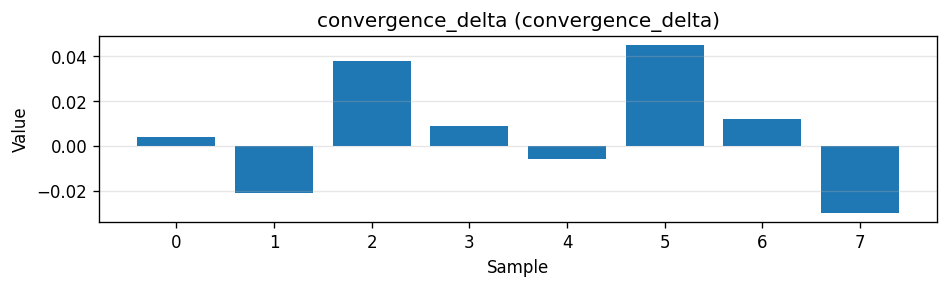
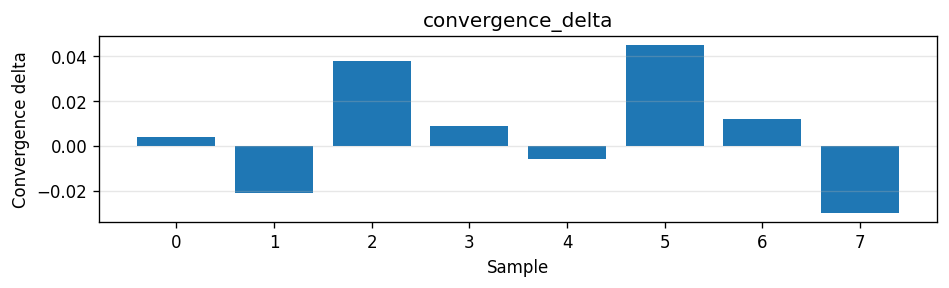
fix(transparency): label structured-payload panels by kind not generic Value (#101)

Changed region(s): [[0.3361, 0.0312, 0.764, 0.0938], [0.0, 0.3438, 0.0306, 0.7188], [0.0, 0.1875, 0.0306, 0.3125]]

diff --git a/src/raitap/transparency/visualisers/structured_payload_visualiser.py b/src/raitap/transparency/visualisers/structured_payload_visualiser.py
@@ -55,10 +55,17 @@ class StructuredPayloadSummaryVisualiser(BaseVisualiser):
         fig, axes = plt.subplots(len(payloads), 1, figsize=(8, 2.5 * len(payloads)), squeeze=False)
         for ax, payload in zip(axes[:, 0], payloads, strict=True):
             values = self._to_1d_numpy(payload.data)
+            readable_kind = payload.kind.value.replace("_", " ").capitalize()
+            # ``name`` is usually the kind value; only disambiguate when it differs.
+            title = (
+                payload.name
+                if payload.name == payload.kind.value
+                else f"{payload.name} ({payload.kind.value})"
+            )
             ax.bar(np.arange(values.shape[0]), values)
-            ax.set_title(f"{payload.name} ({payload.kind.value})")
+            ax.set_title(title)
             ax.set_xlabel("Sample")
-            ax.set_ylabel("Value")
+            ax.set_ylabel(readable_kind)
             ax.grid(axis="y", alpha=0.3)
         fig.tight_layout()
         return fig